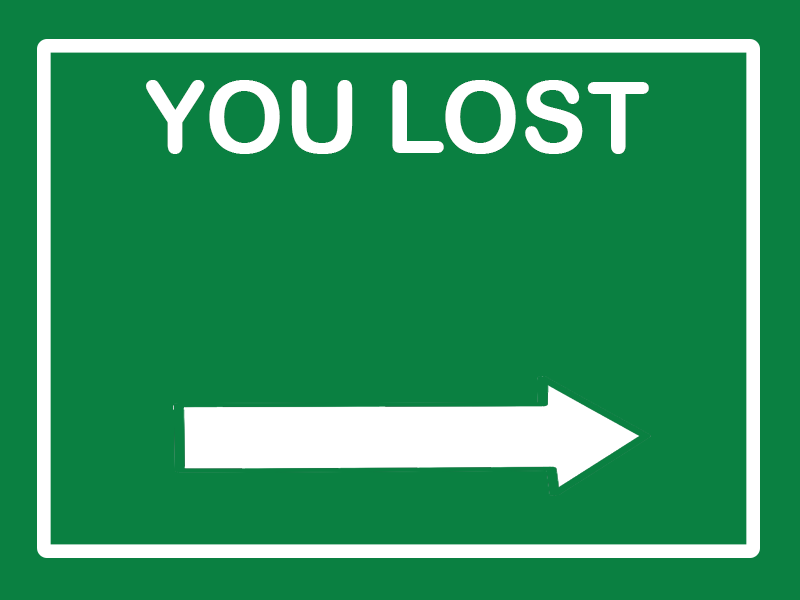
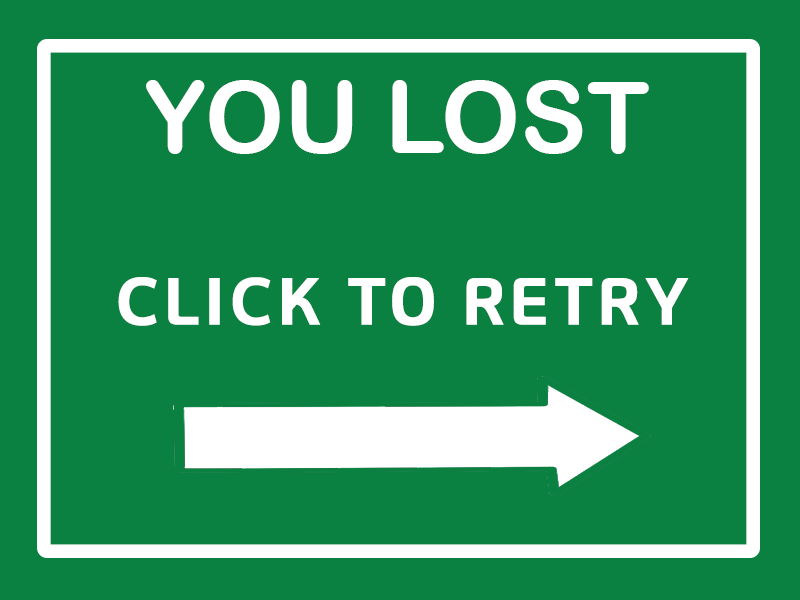
retry

Changed region(s): [[0.4375, 0.45, 0.875, 0.54], [0.125, 0.45, 0.4062, 0.54]]

diff --git a/public/benchmark3/js/play.js b/public/benchmark3/js/play.js
@@ -14,7 +14,6 @@ var playState = {
         this.load.spritesheet('truck', 'assets/cars/pickup (24x40)/pickup truck.png', 24, 40);
         this.load.spritesheet('sports', 'assets/cars/sportz car (20x37)/Sports Car.png', 20, 37);
         this.load.spritesheet('wall', 'assets/invwall.png', 40, 70);
-        this.load.image('retry', 'assets/retry.png');
         //load all sounds
         game.load.audio('slide', 'assets/slide.mp3');
         game.load.audio('click', 'assets/click.mp3')
@@ -54,11 +53,6 @@ var playState = {
         this.startCar.body.velocity.y = -200;
         //create 2 inv walls
         //this.createWalls();
-        //retry screen
-        this.retryScreen = this.add.sprite(0,0, 'retry');
-        this.retryScreen.visible = false;
-        this.retryScreen.inputEnabled = true;
-        this.retryScreen.events.onInputDown.add(this.restart, this);
         //player animations
         this.createPlayerAnimations();
 
@@ -100,9 +94,6 @@ var playState = {
         this.physics.arcade.collide(this.player, this.wall1);
         this.physics.arcade.collide(this.player, this.wall2);*/
         
-        //screens follow camera
-        this.retryScreen.x = this.camera.x;
-        this.retryScreen.y = this.camera.y;
         
         //infinite loop of background images
         this.updateBackground();
@@ -112,8 +103,8 @@ var playState = {
         game.debug.text("Y:                 " + this.player.y, 32, 64);
         game.debug.text("player.jumped:     "+this.player.jumped, 32, 120);
         //game.debug.text("player.lane:       "+this.player.lane, 32, 140);
-        game.debug.text("player oncar:      "+this.player.isOnCar, 32, 160);
-        game.debug.text("player velocityX:  "+this.player.body.velocity.x, 32, 180);
+        game.debug.text("camera.x:          "+this.camera.x, 32, 160);
+        game.debug.text("camera.y:          "+this.camera.y, 32, 180);
         game.debug.text("player velocityY:  "+this.player.body.velocity.y, 32, 200);
         //game.debug.text("lane position:     "+this.lanes[this.player.lane], 32, 220);
         //The bounds of the world is adjusted to match the furthest the player has reached. i.e. the world moves with the player albeit only upwards
@@ -149,7 +140,7 @@ var playState = {
 
 //create-related functions
     createPlayer: function(){
-        this.player = game.add.sprite(this.lanes[1]/*TODO: change if needed*/, this.world.height -300, 'player');
+        this.player = this.add.sprite(this.lanes[1]/*TODO: change if needed*/, this.world.height -300, 'player');
         //boolean variables
         this.player.isDead = false;
         this.player.jumped = false;
@@ -415,7 +406,8 @@ var playState = {
             this.player.body.velocity.setTo(0,0);
             this.player.animations.play('dying');
             this.time.events.add(1000, function(){
-                this.retryScreen.visible = true;
+                this.world.removeAll();
+                game.state.start('retry');
             }, this);
         }
     },
@@ -486,9 +478,5 @@ var playState = {
         }
     },
     restart: function(){
-        this.world.removeAll();
-        this.world.setBounds(0, 0, this.world.width, this.game.height);
-        this.player.isDead = false;
-        this.create();
     }
 };

diff --git a/public/benchmark3/js/retry.js b/public/benchmark3/js/retry.js
@@ -1,0 +1,13 @@
+var retryState = {
+    preload: function(){
+        this.load.image('retry', 'assets/retry.png');
+
+    },
+    create: function(){
+        this.rScreen = this.add.sprite(game.camera.x,game.camera.y, 'retry');
+        this.rScreen.inputEnabled = true;
+        this.rScreen.events.onInputDown.add(function(){
+            game.state.start('play');
+        }, this);
+    }
+};

diff --git a/public/benchmark3/benchmark3_game.html b/public/benchmark3/benchmark3_game.html
@@ -16,6 +16,7 @@
     <script src="js/play.js" type="text/javascript"></script>
     <script src="js/help.js" type="text/javascript"></script>
     <script src="js/controls.js" type="text/javascript"></script>
+    <script src="js/retry.js" type="text/javascript"></script>
     <script src="js/game.js" type="text/javascript"></script>
 </head>
 </html>

diff --git a/public/benchmark3/js/game.js b/public/benchmark3/js/game.js
@@ -5,6 +5,9 @@ game.state.add('help', helpState);
 game.state.add('controls', controlsState);
 game.state.add('menu', menuState);
 game.state.add('play', playState);
+game.state.add('retry', retryState);
+
+var levelNum = 1;
 
 //change to boot in final version maybe?
 game.state.start('menu');
